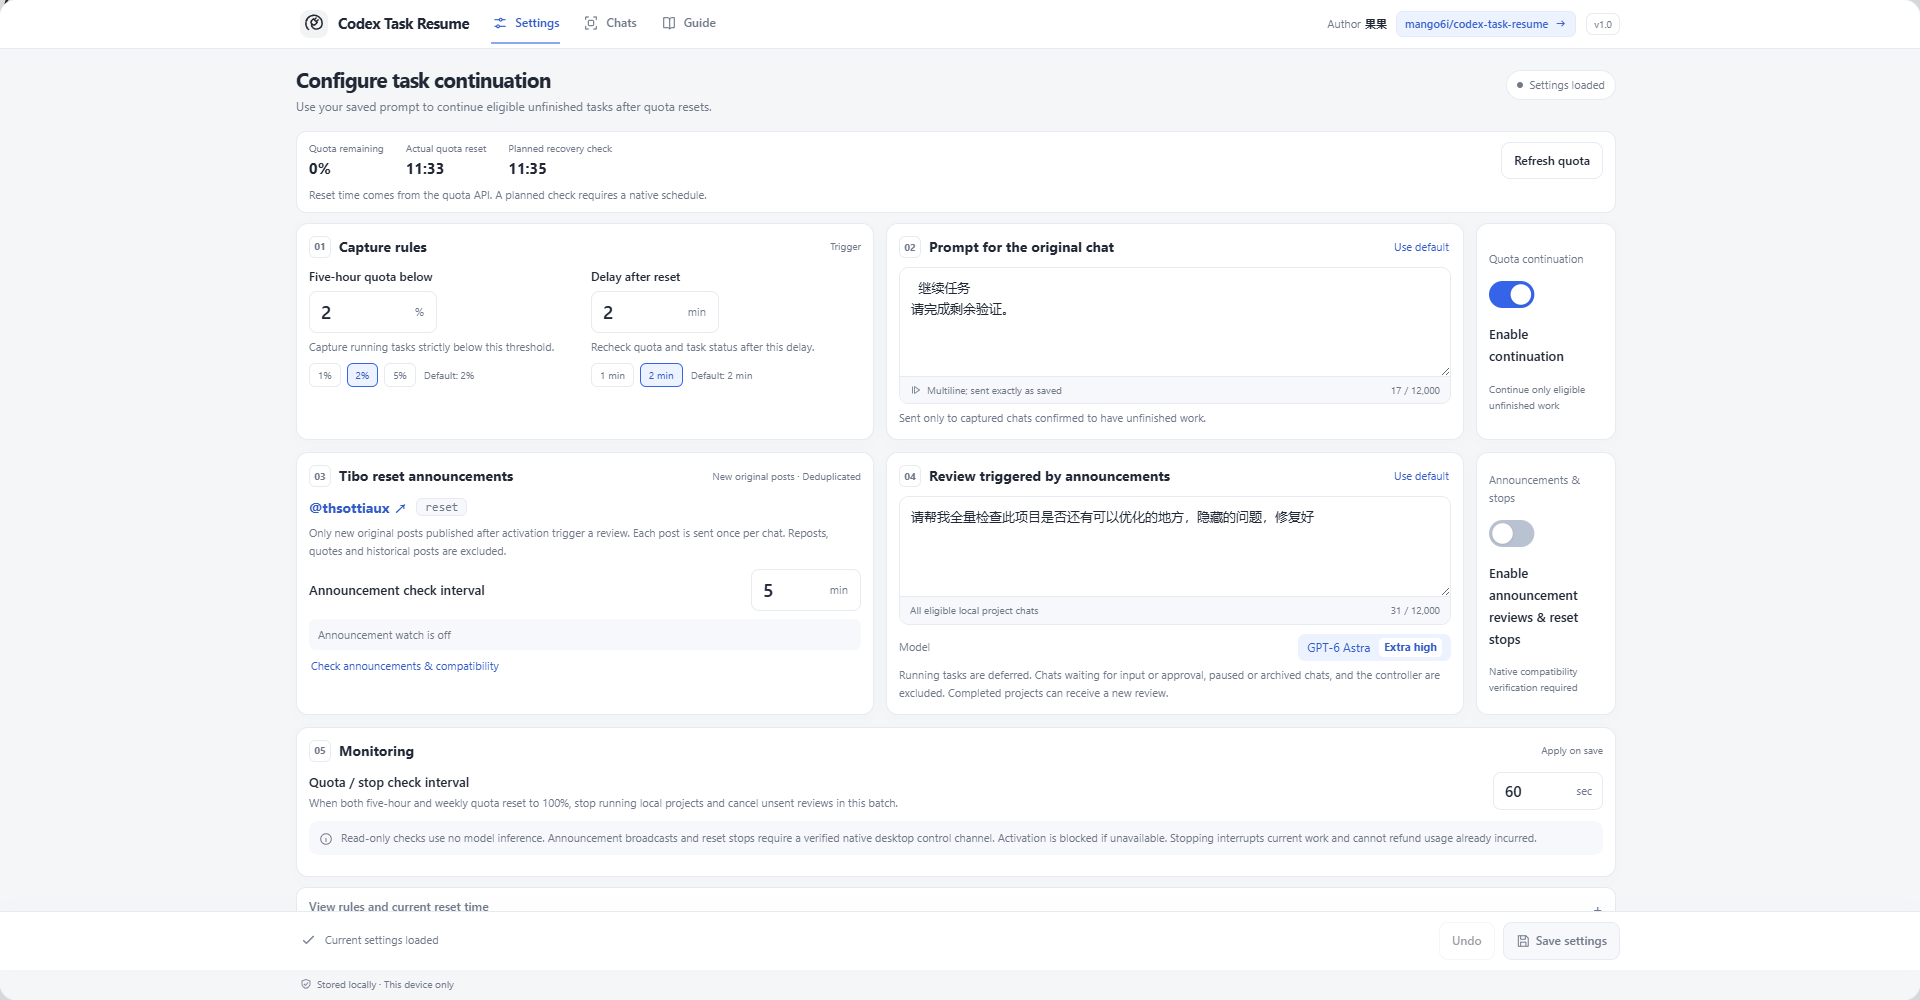
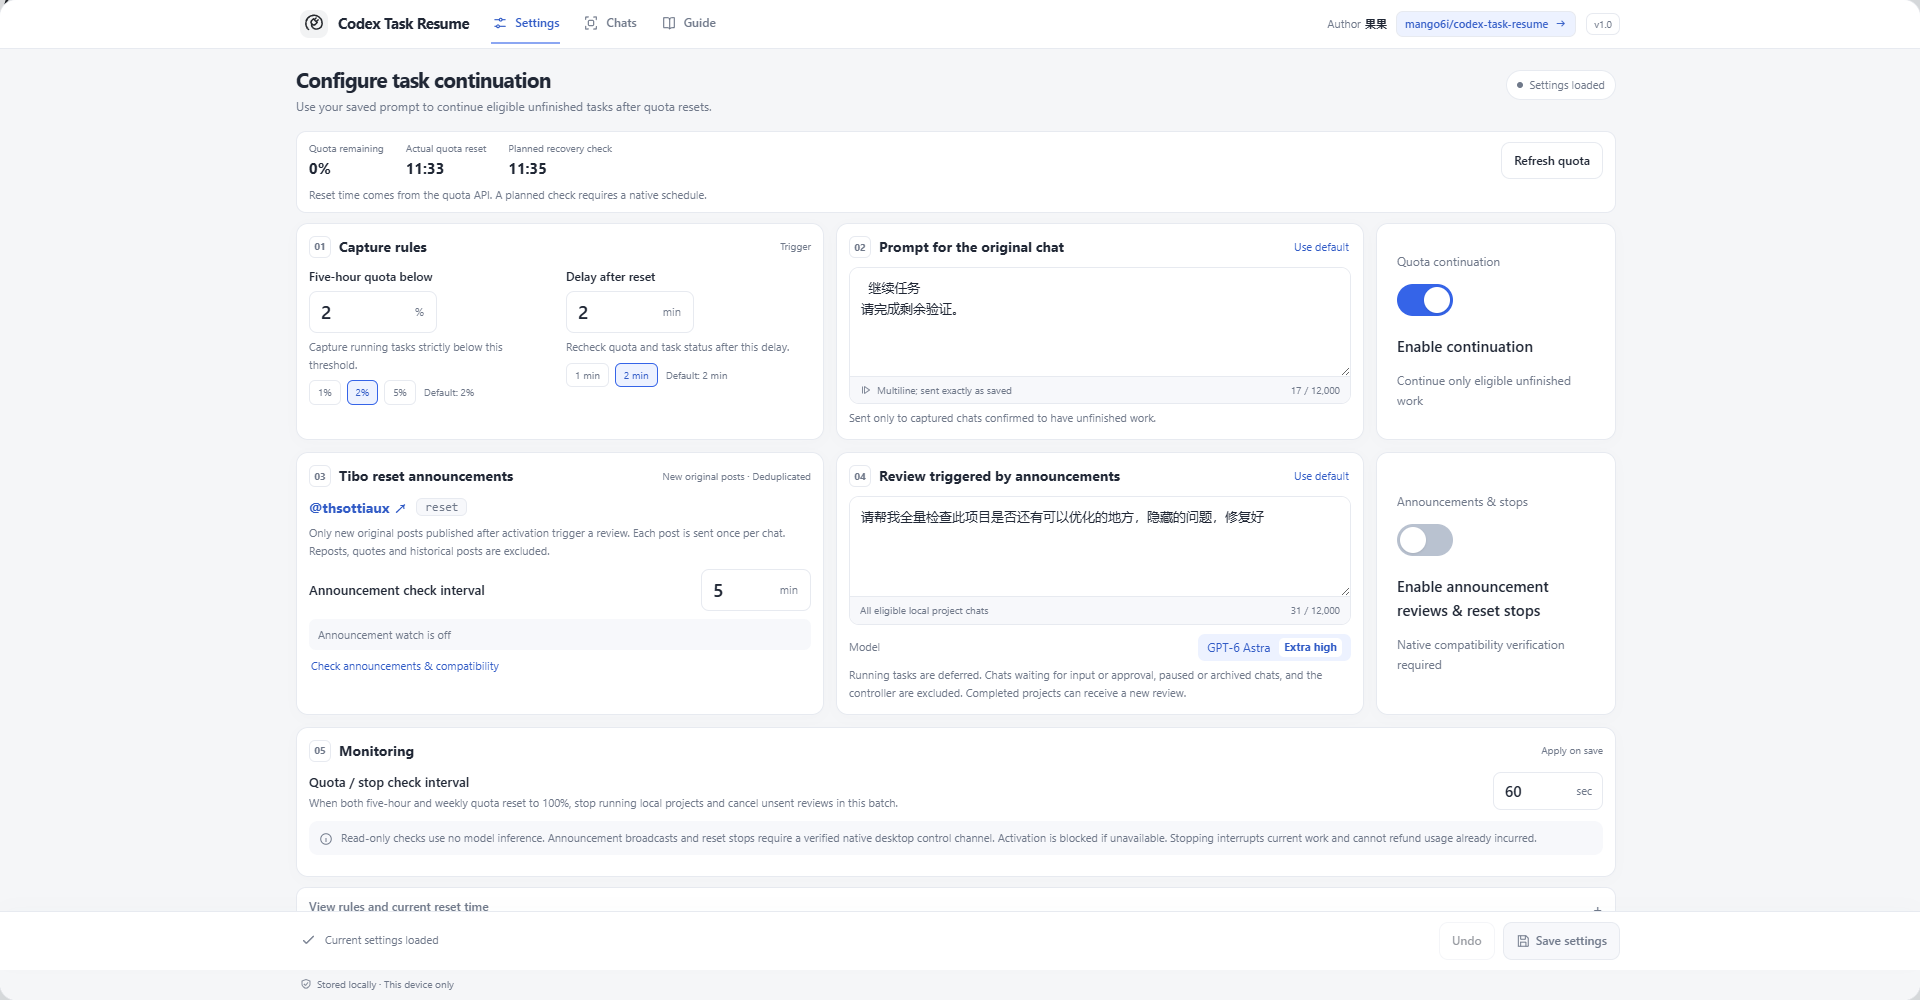
Balance workflow switch columns and enlarge toggle controls

diff --git a/ui/settings.html b/ui/settings.html
@@ -79,9 +79,7 @@ html,body{height:100%;overflow:hidden}
  .app-header .version{margin-left:auto}
 }
 
-.brandmark{background:transparent;box-shadow:none;overflow:hidden}.brandmark img{display:block;width:100%;height:100%;object-fit:contain;border-radius:9px}.steps{align-items:start}.feature-toggle{display:flex;flex-direction:column;justify-content:center;gap:14px}.toggle-eyebrow{font-size:11px;color:var(--muted)}.feature-toggle .control-row{display:flex;flex-direction:column-reverse;align-items:flex-start;gap:16px}.feature-toggle .control-label{font-size:13px;line-height:1.6}.feature-toggle .control-desc{display:none}.feature-toggle .hint{font-size:10px;color:var(--muted);margin:0}.feature-toggle .switch{transform:scale(1.08);transform-origin:left center}.feature-toggle .track{width:44px}.feature-toggle .control-row>div{min-width:0}.feature-toggle .control-row label{overflow-wrap:anywhere}
-@media(max-width:950px) and (min-width:761px){#fields{grid-template-columns:minmax(0,1fr) minmax(0,1fr) 112px}#fields .two{grid-template-columns:minmax(0,1fr)}.feature-toggle{padding:10px}}
-@media(max-width:760px){#fields{grid-template-columns:minmax(0,1fr)}.feature-toggle{display:flex;gap:8px;padding:12px}.feature-toggle .control-row{flex-direction:row;align-items:center;justify-content:space-between;gap:20px}.feature-toggle .toggle-eyebrow{display:none}.feature-toggle .control-desc{display:block}.feature-toggle .switch{flex-shrink:0;transform:none}.feature-toggle .hint{display:none}.feature-toggle .control-label{font-size:13px}}
+.brandmark{background:transparent;box-shadow:none;overflow:hidden}.brandmark img{display:block;width:100%;height:100%;object-fit:contain;border-radius:9px}.steps{align-items:start}
 </style>
 </head>
 <body>
@@ -111,12 +109,12 @@ html,body{height:100%;overflow:hidden}
 .scope-option{display:flex;align-items:flex-start;gap:9px;padding:9px 0;font-size:12px;cursor:pointer}.scope-option input{accent-color:var(--accent);margin-top:3px}.task-toolbar{display:flex;align-items:center;justify-content:space-between;gap:12px;margin-top:16px}.task-toolbar input[type=search]{min-width:0;flex:1;border:1px solid var(--border);border-radius:9px;padding:10px;background:var(--bg);color:inherit;font:inherit}.task-list{margin-top:15px;border:1px solid var(--border);border-radius:12px;overflow:hidden}.task-row{display:flex;align-items:center;gap:12px;padding:15px;cursor:pointer}.task-row+.task-row{border-top:1px solid var(--border)}.task-row>input{accent-color:var(--accent);width:16px;height:16px;flex-shrink:0}.task-row>div{min-width:0;flex:1}.task-row strong{font-size:13px;display:block;overflow-wrap:anywhere}.task-row small{display:block;color:var(--muted);font-size:10px;overflow-wrap:anywhere;margin-top:4px}.task-badge{font-size:10px;white-space:nowrap;color:var(--muted);background:var(--soft);padding:4px 7px;border-radius:6px}#task-monitor,#task-status{font-size:12px;line-height:1.85;color:var(--muted)}@media(max-width:480px){.task-toolbar{flex-wrap:wrap}.task-row{flex-wrap:wrap}.task-badge{margin-left:28px}.task-toolbar input[type=search]{flex-basis:100%}}
 /* The activation control follows each workflow in its own trailing column. */
 #fields .field .input{max-width:128px}#fields>.card:first-child{grid-column:auto}
-#fields{display:grid;grid-template-columns:minmax(0,1fr) minmax(0,1fr) 140px;gap:12px}#fields>.card{grid-column:auto;margin:0;min-width:0}#fields>.runtime-controls{grid-column:1/-1}#fields .two{display:grid;grid-template-columns:minmax(0,1fr) minmax(0,1fr);gap:12px}#fields .field{display:block}#fields .field label{margin-bottom:5px}#fields textarea{height:108px;min-height:80px;font-size:13px}#fields .announcement-prompt textarea{height:99px}.source-line,.model-line{display:flex;gap:9px;align-items:center;flex-wrap:wrap}.source-line a{font-weight:650;font-size:14px;color:var(--accent-text);text-decoration:none}.source-line a:hover{text-decoration:underline}.keyword-chip{background:var(--soft);border:1px solid var(--border);border-radius:6px;padding:1px 8px;font:12px Consolas,monospace;color:var(--muted)}.announcement-interval{margin-top:10px;gap:12px}.announcement-interval .input{width:110px;flex-shrink:0}.announcement-status{margin:8px 0 4px;background:var(--soft);border-radius:7px;padding:7px 9px;font-size:11px;line-height:1.6;color:var(--muted);overflow-wrap:anywhere;max-height:76px;overflow:auto}.announcement-status[data-warning=true]{color:var(--amber)}.model-line{justify-content:space-between;margin-top:9px;font-size:11px;color:var(--muted)}.model-chip{display:inline-flex;align-items:center;gap:9px;padding:4px 9px;border-radius:7px;background:var(--accent-soft);color:var(--accent-text);font-size:12px}.model-chip b{font-size:11px;background:var(--surface);border-radius:5px;padding:0 5px}.runtime-controls .interval{gap:20px}.runtime-controls .interval .input{width:110px;flex-shrink:0}.runtime-controls .note{margin:9px 0}.switches-last{display:grid;grid-template-columns:1fr 1fr;gap:20px;border-top:1px solid var(--border);padding-top:11px}.switches-last>.control-row{gap:14px}.switches-last .control-label{font-size:13px}
+#fields{display:grid;grid-template-columns:minmax(0,1fr) minmax(0,1fr) clamp(190px,20vw,240px);gap:12px}#fields>.card{grid-column:auto;margin:0;min-width:0}#fields>.runtime-controls{grid-column:1/-1}#fields .two{display:grid;grid-template-columns:minmax(0,1fr) minmax(0,1fr);gap:12px}#fields .field{display:block}#fields .field label{margin-bottom:5px}#fields textarea{height:108px;min-height:80px;font-size:13px}#fields .announcement-prompt textarea{height:99px}.source-line,.model-line{display:flex;gap:9px;align-items:center;flex-wrap:wrap}.source-line a{font-weight:650;font-size:14px;color:var(--accent-text);text-decoration:none}.source-line a:hover{text-decoration:underline}.keyword-chip{background:var(--soft);border:1px solid var(--border);border-radius:6px;padding:1px 8px;font:12px Consolas,monospace;color:var(--muted)}.announcement-interval{margin-top:10px;gap:12px}.announcement-interval .input{width:110px;flex-shrink:0}.announcement-status{margin:8px 0 4px;background:var(--soft);border-radius:7px;padding:7px 9px;font-size:11px;line-height:1.6;color:var(--muted);overflow-wrap:anywhere;max-height:76px;overflow:auto}.announcement-status[data-warning=true]{color:var(--amber)}.model-line{justify-content:space-between;margin-top:9px;font-size:11px;color:var(--muted)}.model-chip{display:inline-flex;align-items:center;gap:9px;padding:4px 9px;border-radius:7px;background:var(--accent-soft);color:var(--accent-text);font-size:12px}.model-chip b{font-size:11px;background:var(--surface);border-radius:5px;padding:0 5px}.runtime-controls .interval{gap:20px}.runtime-controls .interval .input{width:110px;flex-shrink:0}.runtime-controls .note{margin:9px 0}.switches-last{display:grid;grid-template-columns:1fr 1fr;gap:20px;border-top:1px solid var(--border);padding-top:11px}.switches-last>.control-row{gap:14px}.switches-last .control-label{font-size:13px}
 @media(max-width:760px){#fields{grid-template-columns:minmax(0,1fr)}#fields .two{grid-template-columns:minmax(0,1fr) minmax(0,1fr)}.switches-last{grid-template-columns:1fr;gap:13px}.runtime-controls .interval{align-items:flex-start}#fields .runtime-controls{grid-column:auto}}
 @media(max-width:420px){#fields .two{grid-template-columns:minmax(0,1fr)}.section-head{flex-wrap:wrap}.runtime-controls .interval{gap:10px}.switches-last .control-label{font-size:12px}}
-.feature-toggle{display:flex;flex-direction:column;justify-content:center;gap:14px}.toggle-eyebrow{font-size:11px;color:var(--muted)}.feature-toggle .control-row{display:flex;flex-direction:column-reverse;align-items:flex-start;gap:16px}.feature-toggle .control-label{font-size:13px;line-height:1.6}.feature-toggle .control-desc{display:none}.feature-toggle .hint{font-size:10px;color:var(--muted);margin:0}.feature-toggle .switch{transform:scale(1.08);transform-origin:left center}.feature-toggle .track{width:44px}.feature-toggle .control-row>div{min-width:0}.feature-toggle .control-row label{overflow-wrap:anywhere}
-@media(max-width:950px) and (min-width:761px){#fields{grid-template-columns:minmax(0,1fr) minmax(0,1fr) 112px}#fields .two{grid-template-columns:minmax(0,1fr)}.feature-toggle{padding:10px}}
-@media(max-width:760px){#fields{grid-template-columns:minmax(0,1fr)}.feature-toggle{display:flex;gap:8px;padding:12px}.feature-toggle .control-row{flex-direction:row;align-items:center;justify-content:space-between;gap:20px}.feature-toggle .toggle-eyebrow{display:none}.feature-toggle .control-desc{display:block}.feature-toggle .switch{flex-shrink:0;transform:none}.feature-toggle .hint{display:none}.feature-toggle .control-label{font-size:13px}}
+.feature-toggle{display:flex;flex-direction:column;justify-content:center;gap:12px;padding:18px 20px}.toggle-eyebrow{font-size:12px;color:var(--muted)}.feature-toggle .control-row{display:flex;flex-direction:column-reverse;align-items:flex-start;gap:18px}.feature-toggle .control-label{font-size:15px;line-height:1.65}.feature-toggle .control-desc{display:none}.feature-toggle .hint{font-size:12px;color:var(--muted);margin:0;line-height:1.65}.feature-toggle .switch{width:56px;height:32px}.feature-toggle .track{width:56px;height:32px}.feature-toggle .track:after{width:26px;height:26px}.feature-toggle .switch input:checked+.track:after{transform:translateX(24px)}.feature-toggle .control-row>div{min-width:0}.feature-toggle .control-row label{overflow-wrap:anywhere}
+@media(max-width:950px) and (min-width:761px){#fields{grid-template-columns:minmax(0,1fr) minmax(0,1fr) 180px}#fields .two{grid-template-columns:minmax(0,1fr)}.feature-toggle{padding:16px}.feature-toggle .control-label{font-size:14px}}
+@media(max-width:760px){#fields{grid-template-columns:minmax(0,1fr)}.feature-toggle{gap:8px;padding:14px}.feature-toggle .control-row{flex-direction:row;align-items:center;justify-content:space-between;gap:20px}.feature-toggle .toggle-eyebrow{display:none}.feature-toggle .control-desc{display:block}.feature-toggle .hint{display:none}.feature-toggle .control-label{font-size:14px}}
 </style>
 <nav class="tabs" role="tablist" aria-label="设置与帮助">
  <button type="button" class="tab" id="tab-settings" role="tab" aria-selected="true" aria-controls="panel-settings" tabindex="0"><svg class="ico" aria-hidden="true"><use href="#tune"/></svg>续接设置</button>

diff --git a/ui/launcher.html b/ui/launcher.html
@@ -16,7 +16,7 @@ document.getElementById('open').addEventListener('click',async()=>{
  const button=document.getElementById('open'),status=document.getElementById('status');status.dataset.error='false';
  if(typeof window.openai?.requestModal!=='function'){status.textContent=t('当前客户端未提供弹窗接口。请点击插件原生设置中的“管理 Codex 任务续接”，或固定应用入口“Codex 任务续接 · 管理”。');status.dataset.error='true';return;}
  button.disabled=true;
- try{await window.openai.requestModal({template:'ui://task-resume/settings-studio-20261018-announcements.html',params:{}});status.textContent=t('已请求客户端打开设置弹窗。保存后可在面板内确认结果。');}
+ try{await window.openai.requestModal({template:'ui://task-resume/settings-studio-20261018-balanced-switches.html',params:{}});status.textContent=t('已请求客户端打开设置弹窗。保存后可在面板内确认结果。');}
  catch(error){status.textContent=t('弹窗未打开：')+(error?.message||t('客户端拒绝了请求。'));status.dataset.error='true';}
  finally{button.disabled=false;}
 });

diff --git a/server/settings_mcp.py b/server/settings_mcp.py
@@ -17,8 +17,8 @@ import desktop_bridge
 
 VERSION = '1.0.0'
 SETTINGS_CAP = {'readTool': 'settings.read', 'updateTool': 'settings.update'}
-EDITOR_URI = 'ui://task-resume/settings-studio-20261018-announcements.html'
-LAUNCHER_URI = 'ui://task-resume/settings-launcher-studio-20261018-announcements.html'
+EDITOR_URI = 'ui://task-resume/settings-studio-20261018-balanced-switches.html'
+LAUNCHER_URI = 'ui://task-resume/settings-launcher-studio-20261018-balanced-switches.html'
 UI_FILES = {EDITOR_URI: 'settings.html', LAUNCHER_URI: 'launcher.html'}
 PROPERTIES = {
     'threshold': {'type': 'number', 'title': '剩余额度低于（%）', 'minimum': 0.01, 'maximum': 99,
